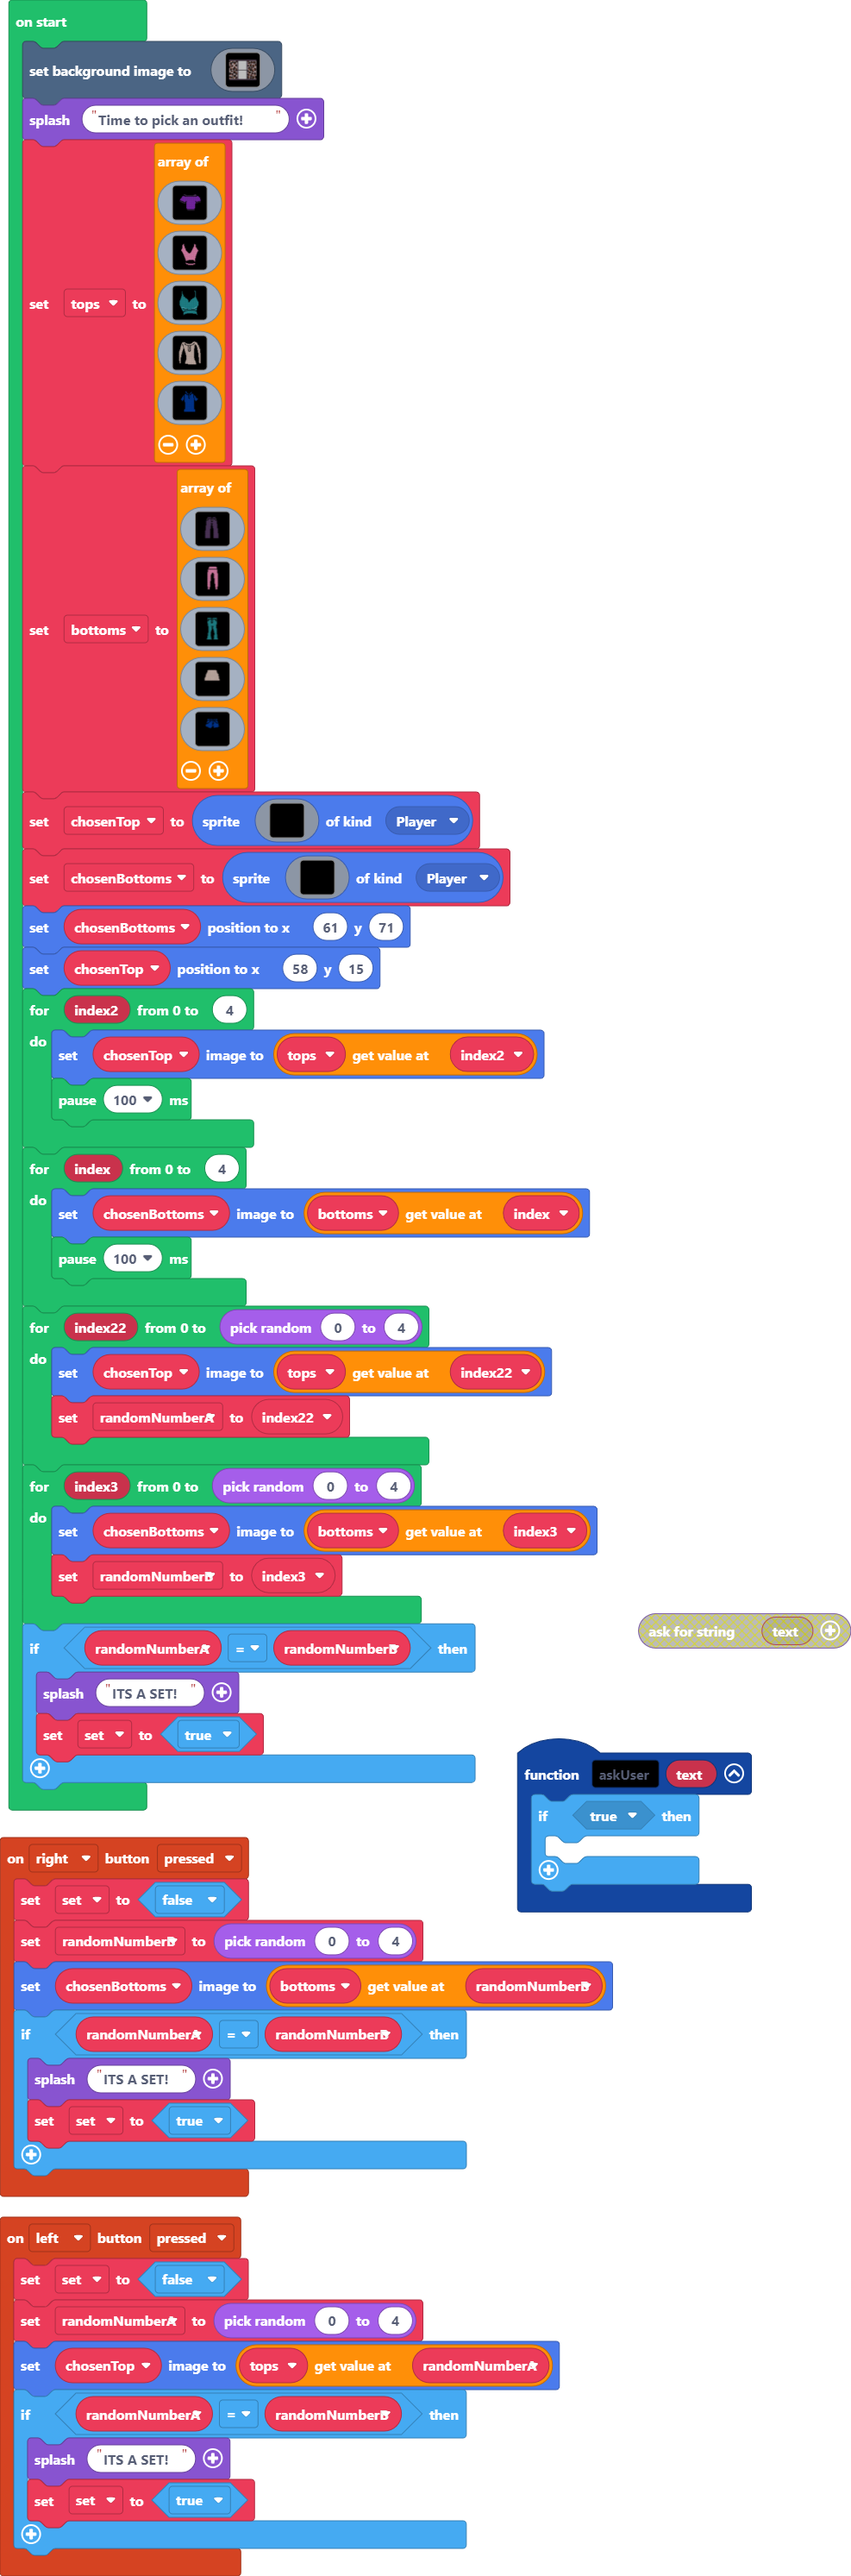
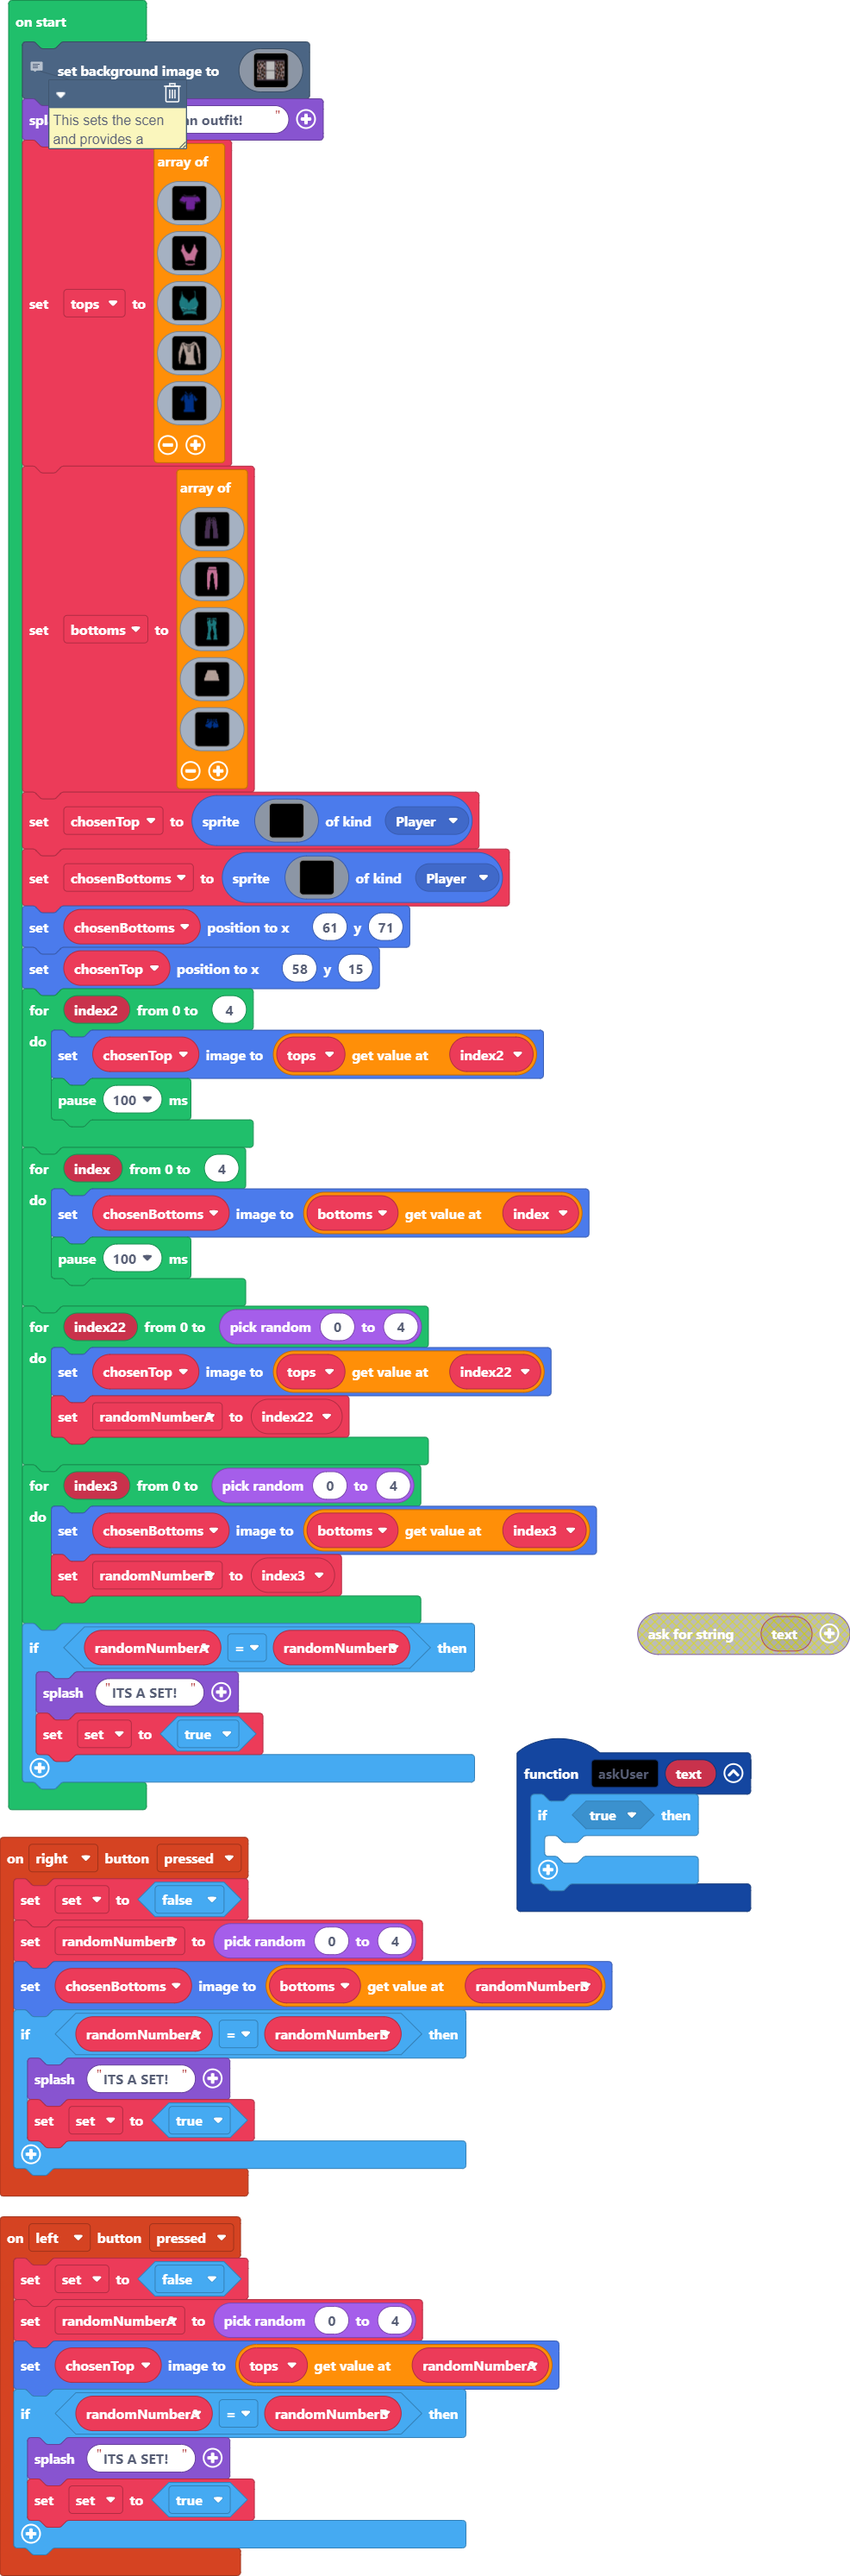
Update main.blocks, main.ts

diff --git a/main.ts b/main.ts
@@ -28,6 +28,7 @@ let chosenBottoms: Sprite = null
 let chosenTop: Sprite = null
 let bottoms: Image[] = []
 let tops: Image[] = []
+// This sets the scen and provides a background
 scene.setBackgroundImage(img`
     ffffffffffffffffffffffffffffffffffffffffffffffffffffffffffffffffffffffffffffffffffffffffffffffffffffffffffffffffffffffffffffffffffffffffffffffffffffffffffffffff
     fccccccccccccccccccccccccccccccccccccccccccccccccccccccccccccccccccccccccccccccccccccccccccccccccccccccccccccccccccccccccccccccccccccccccccccccccccccccccccccccf
